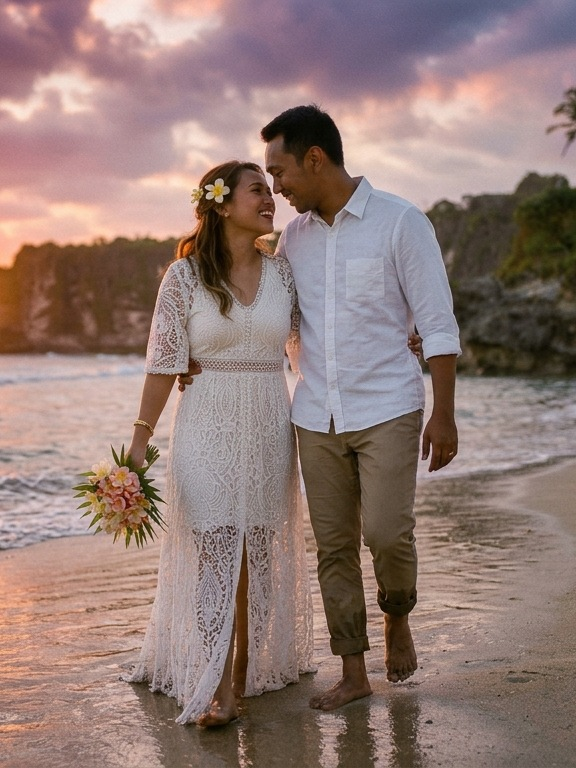
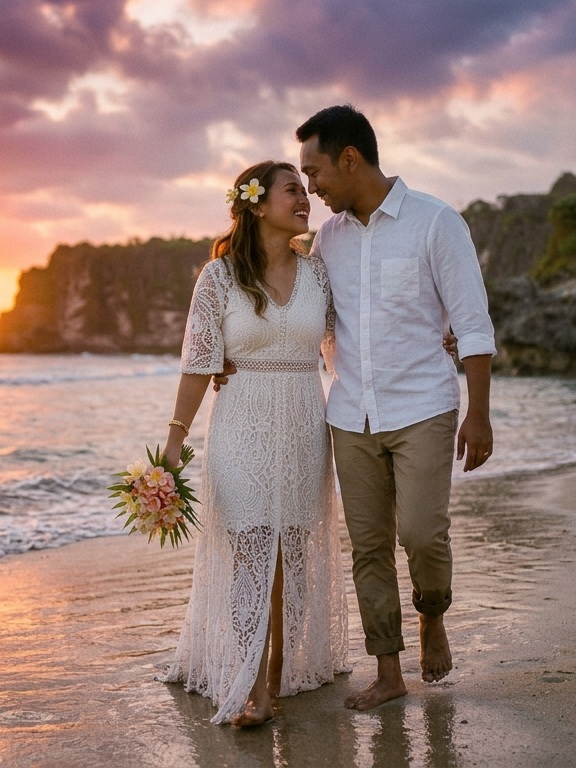
fix: calibrate crop and centering across all 5 photo frames to ensure bride and groom are centered

diff --git a/index.html b/index.html
@@ -81,7 +81,7 @@ if (window.location.search.includes('state=opening')) {
 <section class="reveal-moment" id="reveal-photo" aria-label="Foto kenangan interaktif">
   <div class="reveal-frame-container">
     <div class="reveal-oval-viewport" id="reveal-viewport">
-      <img class="reveal-photo" src="assets/photo-beach-reveal.jpg?v=sunsetbeach2028" alt="Foto kenangan Ariana &amp; Johan" loading="lazy">
+      <img class="reveal-photo" src="assets/photo-beach-reveal.jpg?v=centered2028" alt="Foto kenangan Ariana &amp; Johan" loading="lazy">
       <canvas id="scratch-canvas" role="button" tabindex="0" aria-label="Reveal photo of Ariana &amp; Johan" class="reveal-canvas" style="touch-action: none; opacity: 1; pointer-events: auto;"></canvas>
     </div>
     <img class="reveal-frame-overlay" src="assets/pearl-reveal-frame.webp" alt="" aria-hidden="true">
@@ -100,7 +100,7 @@ if (window.location.search.includes('state=opening')) {
   <div class="couple-knot-ornament" aria-hidden="true"><img src="assets/pearl-butterfly.webp" alt=""></div>
   <div class="section-heading reveal"><p class="eyebrow">THE BRIDE & THE GROOM</p><h2 class="script">Dua hati, satu cerita</h2></div>
   <div class="couple-portrait reveal">
-    <img class="portrait" src="assets/photo-beach-couple.jpg?v=sunsetbeach2028" alt="Foto pernikahan Ariana &amp; Johan" loading="lazy">
+    <img class="portrait" src="assets/photo-beach-couple.jpg?v=centered2028" alt="Foto pernikahan Ariana &amp; Johan" loading="lazy">
     <img class="portrait-flower flower-sway" src="assets/pearl-rose.webp" alt="" loading="lazy">
   </div>
   <div class="couple-names reveal">
@@ -134,7 +134,7 @@ if (window.location.search.includes('state=opening')) {
 
     <!-- 4. Center vertical wedding photo -->
     <div class="keepsake-photo keepsake-item">
-      <img src="assets/photo-beach-keepsake.jpg?v=sunsetbeach2028" alt="Potret kenangan Ariana &amp; Johan" loading="lazy">
+      <img src="assets/photo-beach-keepsake.jpg?v=centered2028" alt="Potret kenangan Ariana &amp; Johan" loading="lazy">
     </div>
 
     <!-- 5. Right oval lace badge with Date -->
@@ -188,9 +188,9 @@ if (window.location.search.includes('state=opening')) {
   <img class="gallery-flower-pearl ornament flower-sway" src="assets/pearl-flower.webp" alt="" loading="lazy">
   <div class="section-heading reveal"><p class="eyebrow">FLEETING MOMENTS, ENDLESS LOVE</p><h2 class="script">Captured in time</h2><p>Beberapa detik yang ingin kami simpan selamanya.</p></div>
   <div class="gallery-layout">
-    <button class="photo-button gallery-first reveal" data-photo="assets/photo-beach-gallery1-full.jpg?v=sunsetbeach2028" aria-label="Perbesar foto kenangan pertama"><img class="gallery-photo" src="assets/photo-beach-gallery1.jpg?v=sunsetbeach2028" alt="Ariana &amp; Johan saat matahari terbenam di pantai" loading="lazy"><img class="gallery-frame" src="assets/clam-pearl-frame.webp" alt="" loading="lazy"></button>
+    <button class="photo-button gallery-first reveal" data-photo="assets/photo-beach-gallery1-full.jpg?v=centered2028" aria-label="Perbesar foto kenangan pertama"><img class="gallery-photo" src="assets/photo-beach-gallery1.jpg?v=centered2028" alt="Ariana &amp; Johan saat matahari terbenam di pantai" loading="lazy"><img class="gallery-frame" src="assets/clam-pearl-frame.webp" alt="" loading="lazy"></button>
     <p class="gallery-caption">forever, and a day</p>
-    <button class="photo-button gallery-second reveal" data-photo="assets/photo-beach-gallery2-full.jpg?v=sunsetbeach2028" aria-label="Perbesar foto kenangan kedua"><img class="gallery-photo" src="assets/photo-beach-gallery2.jpg?v=sunsetbeach2028" alt="Ariana &amp; Johan tersenyum bahagia" loading="lazy"><img class="gallery-frame" src="assets/ribbon-frame.webp" alt="" loading="lazy"></button>
+    <button class="photo-button gallery-second reveal" data-photo="assets/photo-beach-gallery2-full.jpg?v=centered2028" aria-label="Perbesar foto kenangan kedua"><img class="gallery-photo" src="assets/photo-beach-gallery2.jpg?v=centered2028" alt="Ariana &amp; Johan tersenyum bahagia" loading="lazy"><img class="gallery-frame" src="assets/ribbon-frame.webp" alt="" loading="lazy"></button>
   </div>
 </section>
 

diff --git a/pearl-refinement.css b/pearl-refinement.css
@@ -873,7 +873,7 @@ html.is-opening .cover-actions {
   width: 100%;
   height: 100%;
   object-fit: cover;
-  object-position: center 30%;
+  object-position: center 42%;
   border-radius: 50%;
   display: block;
 }
